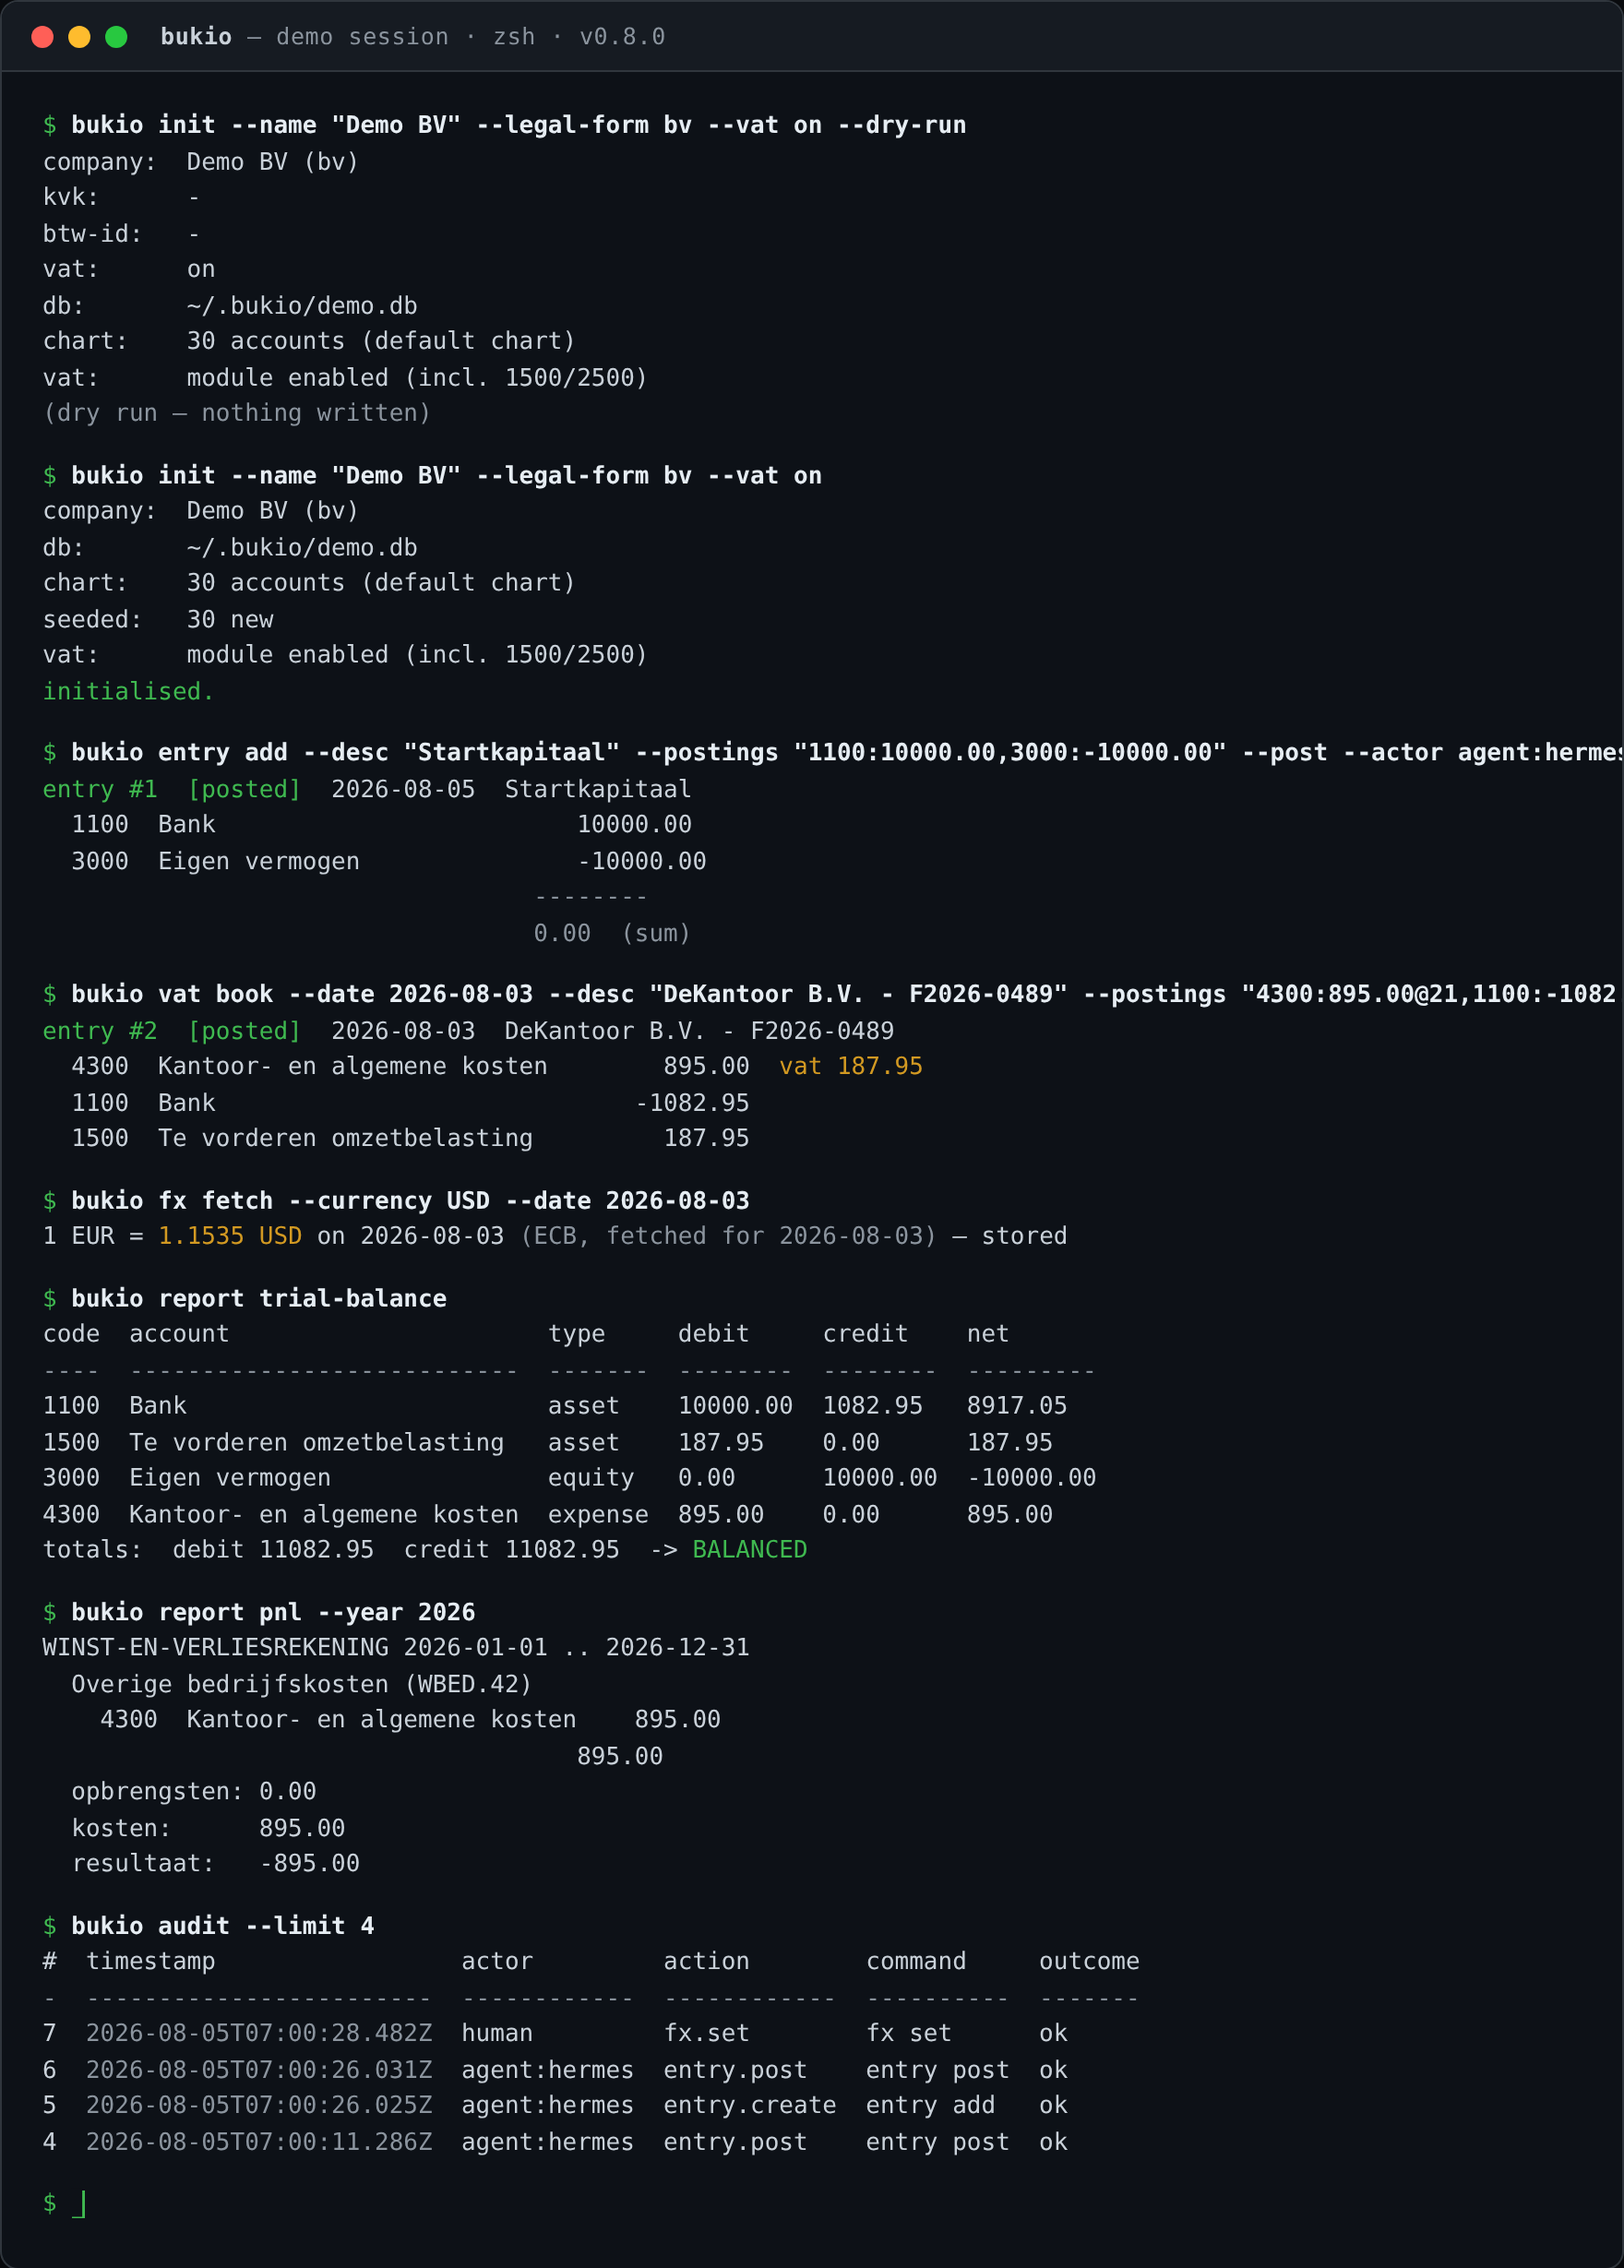
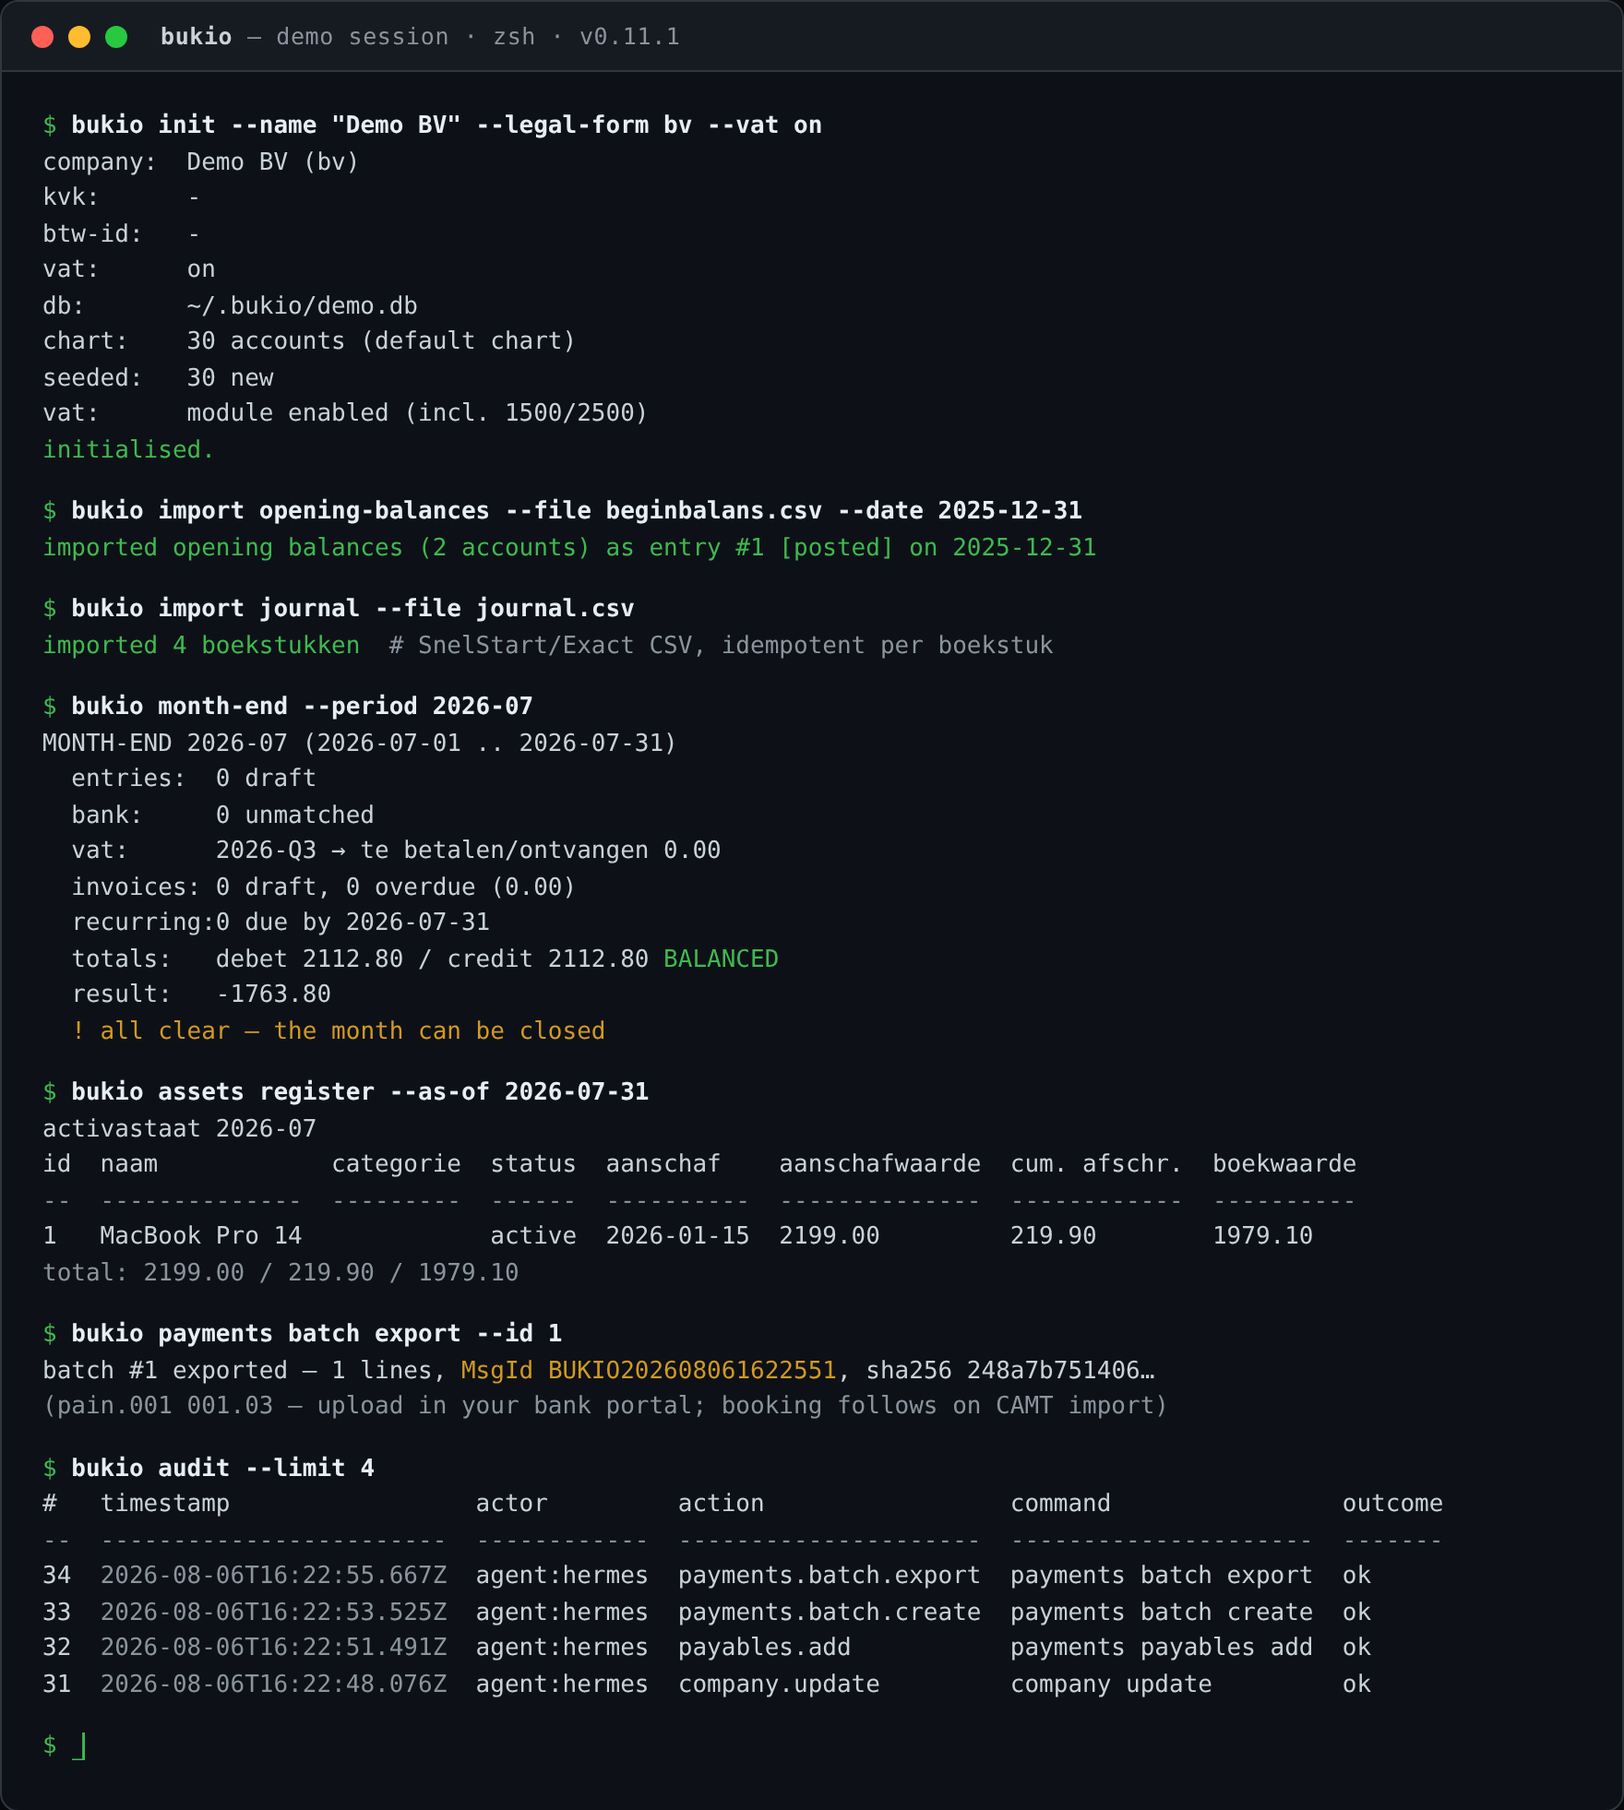
docs: regenerate README screenshot — v0.11.1 demo showing imports, month-end, activastaat and SEPA batches

diff --git a/scripts/screenshot-template.html b/scripts/screenshot-template.html
@@ -43,68 +43,55 @@
 <div class="window">
   <div class="titlebar">
     <span class="dot r"></span><span class="dot y"></span><span class="dot g"></span>
-    <span class="title"><b>bukio</b> — demo session · zsh · v0.8.0</span>
+    <span class="title"><b>bukio</b> — demo session · zsh · v0.11.1</span>
   </div>
   <div class="body">
-    <div class="line"><span class="prompt" style="color:#3fb950">$ </span><span class="cmd">bukio init --name "Demo BV" --legal-form bv --vat on --dry-run</span></div>
+    <div class="line"><span class="prompt" style="color:#3fb950">$ </span><span class="cmd">bukio init --name "Demo BV" --legal-form bv --vat on</span></div>
     <div class="line">company:  Demo BV (bv)</div>
     <div class="line">kvk:      -</div>
     <div class="line">btw-id:   -</div>
     <div class="line">vat:      on</div>
     <div class="line">db:       ~/.bukio/demo.db</div>
     <div class="line">chart:    30 accounts (default chart)</div>
-    <div class="line">vat:      module enabled (incl. 1500/2500)</div>
-    <div class="line dim">(dry run — nothing written)</div>
-    <div class="spacer"></div>
-    <div class="line"><span class="prompt" style="color:#3fb950">$ </span><span class="cmd">bukio init --name "Demo BV" --legal-form bv --vat on</span></div>
-    <div class="line">company:  Demo BV (bv)</div>
-    <div class="line">db:       ~/.bukio/demo.db</div>
-    <div class="line">chart:    30 accounts (default chart)</div>
     <div class="line">seeded:   30 new</div>
     <div class="line">vat:      module enabled (incl. 1500/2500)</div>
     <div class="line"><span class="green">initialised.</span></div>
     <div class="spacer"></div>
-    <div class="line"><span class="prompt" style="color:#3fb950">$ </span><span class="cmd">bukio entry add --desc "Startkapitaal" --postings "1100:10000.00,3000:-10000.00" --post --actor agent:hermes</span></div>
-    <div class="line"><span class="green">entry #1  [posted]</span>  2026-08-05  Startkapitaal</div>
-    <div class="line">  1100  Bank                         10000.00</div>
-    <div class="line">  3000  Eigen vermogen               -10000.00</div>
-    <div class="line dim">                                  --------</div>
-    <div class="line dim">                                  0.00  (sum)</div>
+    <div class="line"><span class="prompt" style="color:#3fb950">$ </span><span class="cmd">bukio import opening-balances --file beginbalans.csv --date 2025-12-31</span></div>
+    <div class="line"><span class="green">imported opening balances (2 accounts) as entry #1 [posted] on 2025-12-31</span></div>
     <div class="spacer"></div>
-    <div class="line"><span class="prompt" style="color:#3fb950">$ </span><span class="cmd">bukio vat book --date 2026-08-03 --desc "DeKantoor B.V. - F2026-0489" --postings "4300:895.00@21,1100:-1082.95" --post --actor agent:hermes</span></div>
-    <div class="line"><span class="green">entry #2  [posted]</span>  2026-08-03  DeKantoor B.V. - F2026-0489</div>
-    <div class="line">  4300  Kantoor- en algemene kosten        895.00  <span class="yellow">vat 187.95</span></div>
-    <div class="line">  1100  Bank                             -1082.95</div>
-    <div class="line">  1500  Te vorderen omzetbelasting         187.95</div>
+    <div class="line"><span class="prompt" style="color:#3fb950">$ </span><span class="cmd">bukio import journal --file journal.csv</span></div>
+    <div class="line"><span class="green">imported 4 boekstukken</span>  <span class="dim"># SnelStart/Exact CSV, idempotent per boekstuk</span></div>
     <div class="spacer"></div>
-    <div class="line"><span class="prompt" style="color:#3fb950">$ </span><span class="cmd">bukio fx fetch --currency USD --date 2026-08-03</span></div>
-    <div class="line">1 EUR = <span class="yellow">1.1535 USD</span> on 2026-08-03 <span class="dim">(ECB, fetched for 2026-08-03)</span> — stored</div>
+    <div class="line"><span class="prompt" style="color:#3fb950">$ </span><span class="cmd">bukio month-end --period 2026-07</span></div>
+    <div class="line">MONTH-END 2026-07 (2026-07-01 .. 2026-07-31)</div>
+    <div class="line">  entries:  0 draft</div>
+    <div class="line">  bank:     0 unmatched</div>
+    <div class="line">  vat:      2026-Q3 → te betalen/ontvangen 0.00</div>
+    <div class="line">  invoices: 0 draft, 0 overdue (0.00)</div>
+    <div class="line">  recurring:0 due by 2026-07-31</div>
+    <div class="line">  totals:   debet 2112.80 / credit 2112.80 <span class="green">BALANCED</span></div>
+    <div class="line">  result:   -1763.80</div>
+    <div class="line">  <span class="yellow">! all clear — the month can be closed</span></div>
     <div class="spacer"></div>
-    <div class="line"><span class="prompt" style="color:#3fb950">$ </span><span class="cmd">bukio report trial-balance</span></div>
-    <div class="line">code  account                      type     debit     credit    net      </div>
-    <div class="line dim">----  ---------------------------  -------  --------  --------  ---------</div>
-    <div class="line">1100  Bank                         asset    10000.00  1082.95   8917.05  </div>
-    <div class="line">1500  Te vorderen omzetbelasting   asset    187.95    0.00      187.95   </div>
-    <div class="line">3000  Eigen vermogen               equity   0.00      10000.00  -10000.00</div>
-    <div class="line">4300  Kantoor- en algemene kosten  expense  895.00    0.00      895.00   </div>
-    <div class="line">totals:  debit 11082.95  credit 11082.95  -&gt; <span class="green">BALANCED</span></div>
+    <div class="line"><span class="prompt" style="color:#3fb950">$ </span><span class="cmd">bukio assets register --as-of 2026-07-31</span></div>
+    <div class="line">activastaat 2026-07</div>
+    <div class="line">id  naam            categorie  status  aanschaf    aanschafwaarde  cum. afschr.  boekwaarde</div>
+    <div class="line dim">--  --------------  ---------  ------  ----------  --------------  ------------  ----------</div>
+    <div class="line">1   MacBook Pro 14             active  2026-01-15  2199.00         219.90        1979.10   </div>
+    <div class="line dim">total: 2199.00 / 219.90 / 1979.10</div>
     <div class="spacer"></div>
-    <div class="line"><span class="prompt" style="color:#3fb950">$ </span><span class="cmd">bukio report pnl --year 2026</span></div>
-    <div class="line">WINST- EN VERLIESREKENING 2026-01-01 .. 2026-12-31</div>
-    <div class="line">  Overige bedrijfskosten (WBED.42)</div>
-    <div class="line">    4300  Kantoor- en algemene kosten    895.00</div>
-    <div class="line">                                     895.00</div>
-    <div class="line">  opbrengsten: 0.00</div>
-    <div class="line">  kosten:      895.00</div>
-    <div class="line">  resultaat:   -895.00</div>
+    <div class="line"><span class="prompt" style="color:#3fb950">$ </span><span class="cmd">bukio payments batch export --id 1</span></div>
+    <div class="line">batch #1 exported — 1 lines, <span class="yellow">MsgId BUKIO202608061622551</span>, sha256 248a7b751406…</div>
+    <div class="line dim">(pain.001 001.03 — upload in your bank portal; booking follows on CAMT import)</div>
     <div class="spacer"></div>
     <div class="line"><span class="prompt" style="color:#3fb950">$ </span><span class="cmd">bukio audit --limit 4</span></div>
-    <div class="line">#  timestamp                 actor         action        command     outcome</div>
-    <div class="line dim">-  ------------------------  ------------  ------------  ----------  -------</div>
-    <div class="line">7  <span class="dim">2026-08-05T07:00:28.482Z</span>  human         fx.set        fx set      ok     </div>
-    <div class="line">6  <span class="dim">2026-08-05T07:00:26.031Z</span>  agent:hermes  entry.post    entry post  ok     </div>
-    <div class="line">5  <span class="dim">2026-08-05T07:00:26.025Z</span>  agent:hermes  entry.create  entry add   ok     </div>
-    <div class="line">4  <span class="dim">2026-08-05T07:00:11.286Z</span>  agent:hermes  entry.post    entry post  ok     </div>
+    <div class="line">#   timestamp                 actor         action                 command                outcome</div>
+    <div class="line dim">--  ------------------------  ------------  ---------------------  ---------------------  -------</div>
+    <div class="line">34  <span class="dim">2026-08-06T16:22:55.667Z</span>  agent:hermes  payments.batch.export  payments batch export  ok     </div>
+    <div class="line">33  <span class="dim">2026-08-06T16:22:53.525Z</span>  agent:hermes  payments.batch.create  payments batch create  ok     </div>
+    <div class="line">32  <span class="dim">2026-08-06T16:22:51.491Z</span>  agent:hermes  payables.add           payments payables add  ok     </div>
+    <div class="line">31  <span class="dim">2026-08-06T16:22:48.076Z</span>  agent:hermes  company.update         company update         ok     </div>
     <div class="spacer"></div>
     <div class="line"><span class="prompt" style="color:#3fb950">$ </span><span class="cursor">▊</span></div>
   </div>

diff --git a/scripts/screenshot.js b/scripts/screenshot.js
@@ -1,7 +1,7 @@
 // Regenerate the README screenshot from scripts/screenshot-template.html.
 // The template contains a verbatim capture of a real bukio demo session
-// (init → opening capital → VAT purchase → ECB FX → trial balance → P&L →
-// audit) rendered as a terminal window. Run: node scripts/screenshot.js
+// (init → opening balances → journal import → month-end → activastaat →
+// SEPA payment batch → audit) rendered as a terminal window. Run: node scripts/screenshot.js
 // Requires the pinned playwright-core + cached Chromium (see src/invoice/pdf.js).
 import { fileURLToPath } from 'node:url';
 import path from 'node:path';
